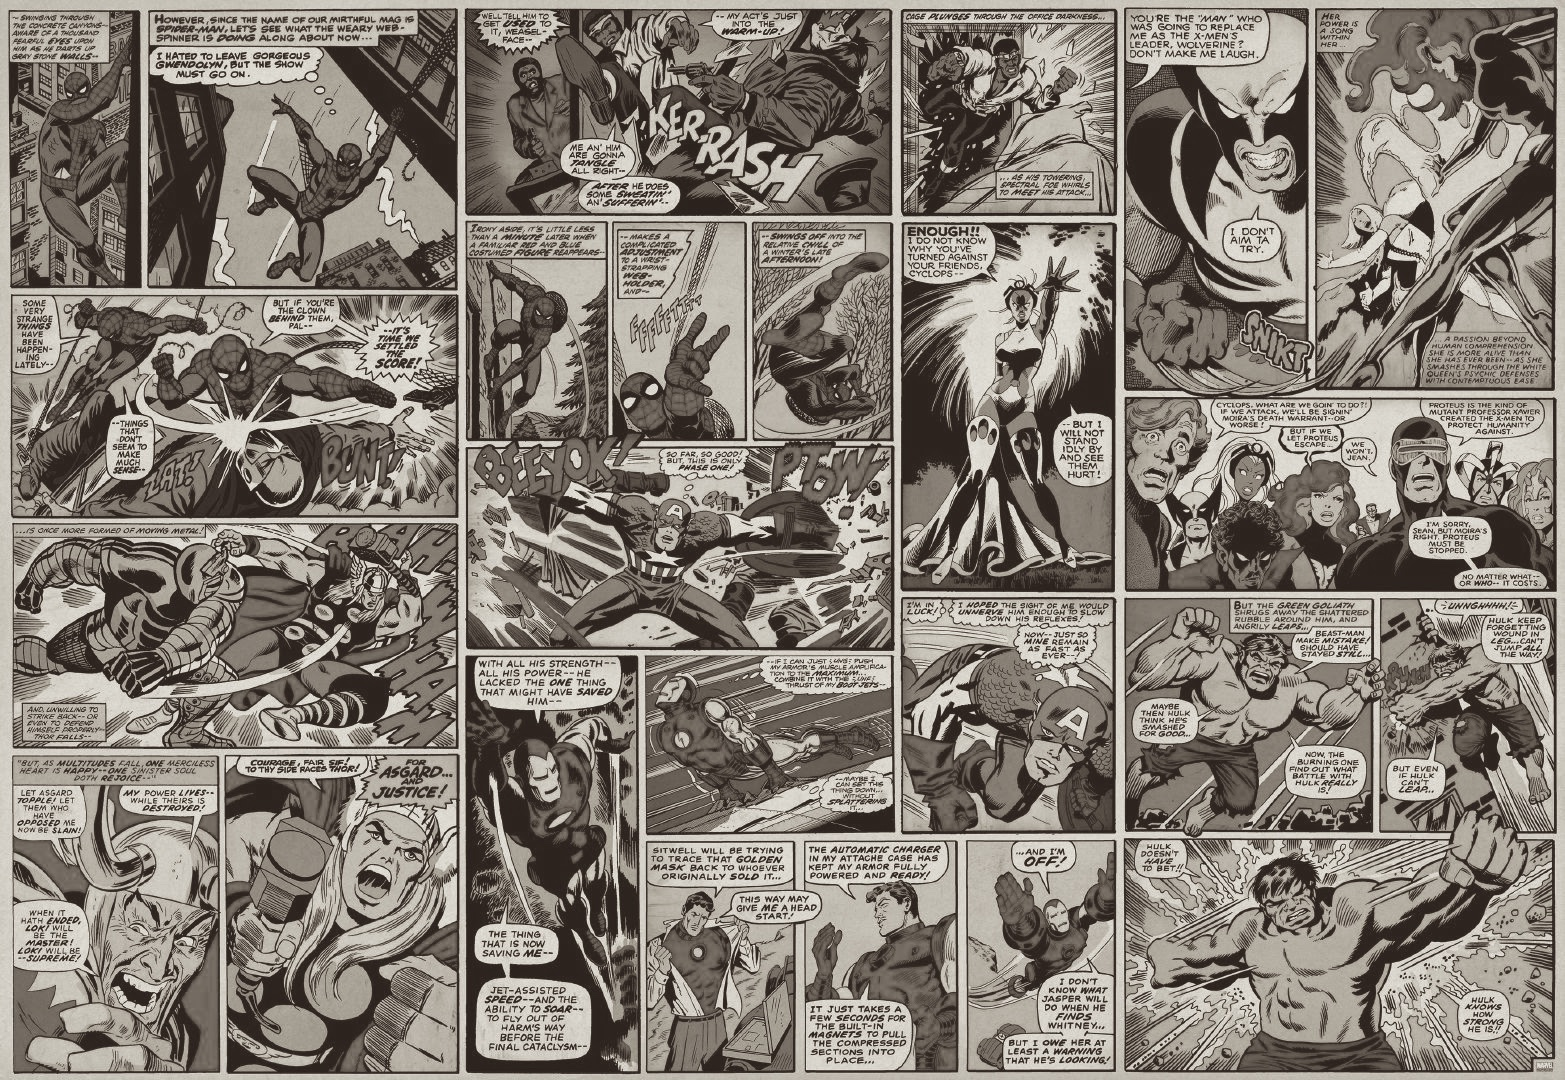
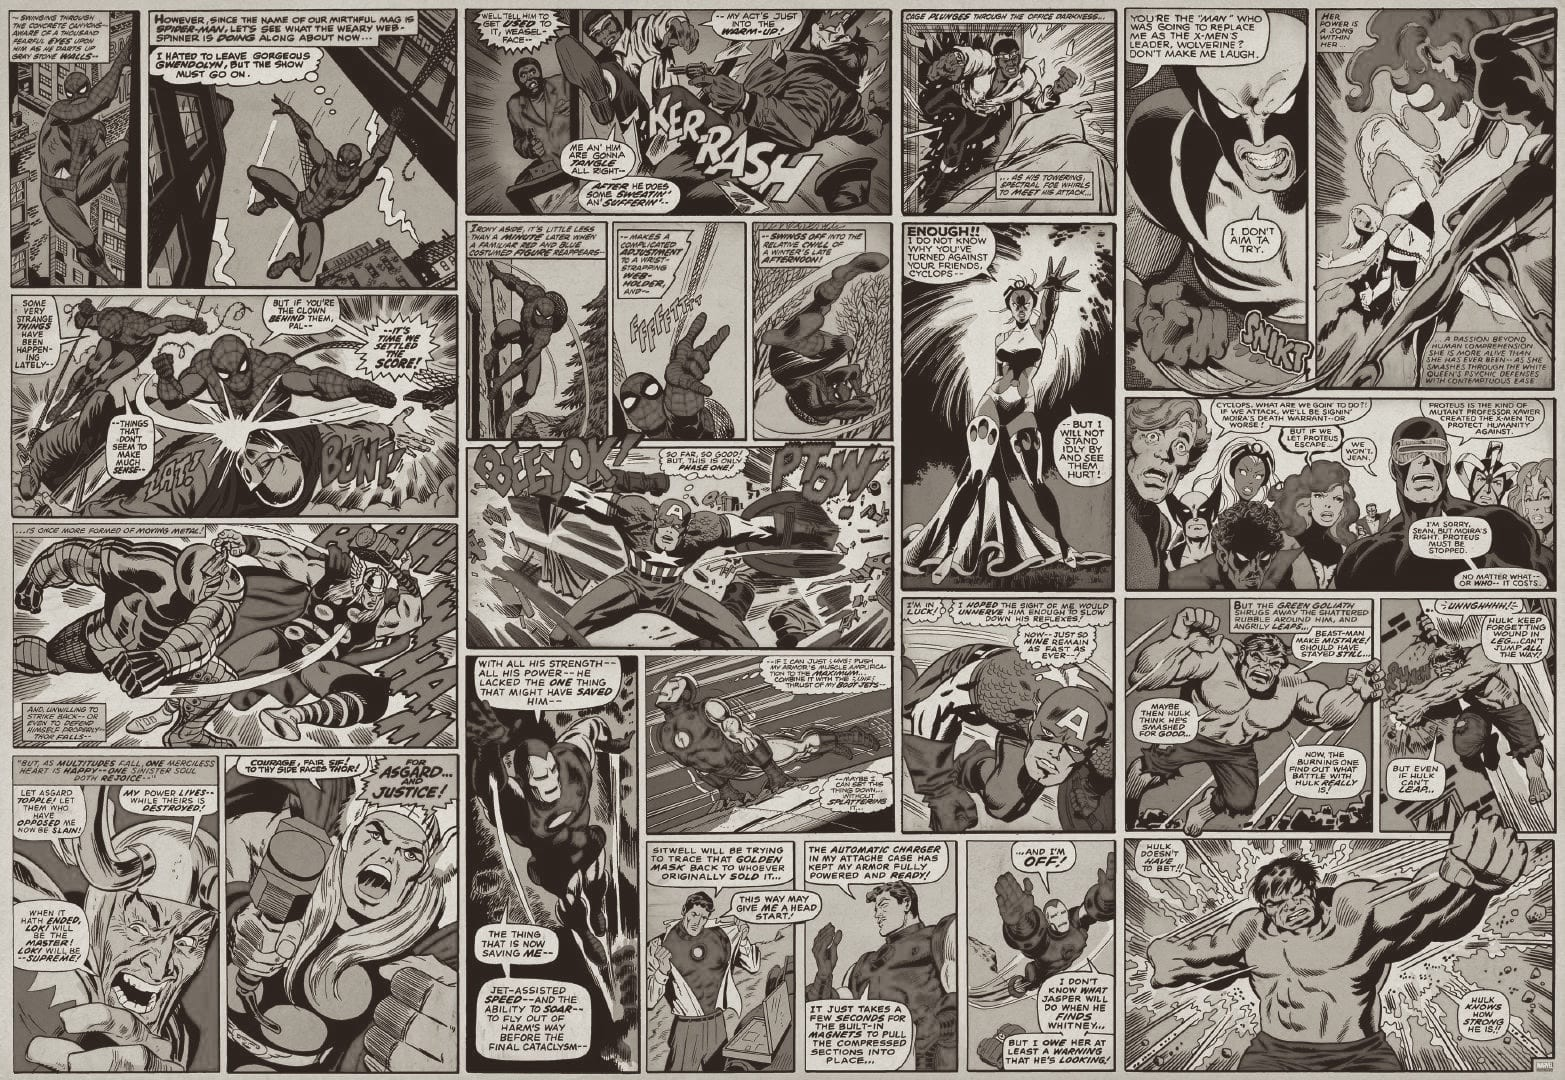
-More image compression -Implemented pulsing arrow on intro page -Overall code clean-up

Changed region(s): [[0.5827, 0.3056, 0.6134, 0.3361]]

diff --git a/stylesheets/style.css b/stylesheets/style.css
@@ -1,59 +1,80 @@
-
-
-body, html {
-    height:100%;
-    background-color:#8F7451;
-    max-width:100%;
+body,
+html {
+    height: 100%;
+    background-color: #8F7451;
+    max-width: 100%;
     overflow-x: hidden;
 }
-
-.Links { 
-    position:absolute;
-    padding-bottom:1em;
-    padding-right:2em;
-    bottom:0;
-    right:0;
+.intro .links {
+    position: absolute;
+    padding-bottom: 1em;
+    padding-right: 2em;
+    bottom: 0;
+    right: 0;
 }
-
-.intro {   
-    margin:0px;
-    width:100vw;
-    height:100vh;
-    background-image:url("../Images/Comic.jpg");
-    background-size:auto;
+body .intro {
+    background-image: url("../Images/Comic.jpg");
     background-attachment: fixed;
-    -webkit-background-size:cover;
+    -webkit-background-size: cover;
     -moz-background-size: cover;
     -o-background-size: cover;
+    background-size: cover;
     position: relative;
-    top:0;
 }
-
-#LOGO {
-    position:relative;
-    padding:0;
-    width:100vw;
-    height:100vh;
-    background-image:url("../Images/Devansh.png");
+.intro .LOGO {
+    position: relative;
+    width: 100vw;
+    height: 100vh;
+    background-image: url("../Images/Devansh.png");
     background-repeat: no-repeat;
-    background-attachment:scroll;
+    background-attachment: scroll;
     background-position: center center;
-    background-size:75% 75%;     
+    background-size: 75% 75%;
 }
-
-img {
-  position:absolute;
-  width:10%;
-  height:10%;
-  left:50vw;
-  right:50vw;
-  bottom:0;
-  -webkit-transition: opacity 1s ease-in-out;
-  -moz-transition: opacity 1s ease-in-out;
-  -o-transition: opacity 1s ease-in-out;
-  transition: opacity 1s ease-in-out;
+.enterButton {
+    position: absolute;
+    width: 10%;
+    height: 10%;
+    left: 50vw;
+    right: 50vw;
+    bottom: 0;
 }
-
-.intro img.top:hover {
-  opacity:0;
+@-webkit-keyframes blink {
+    0% {
+        opacity: 1;
+    }
+    50% {
+        opacity: 0;
+    }
+    100% {
+        opacity: 1;
+    }
+}
+@-moz-keyframes blink {
+    0% {
+        opacity: 1;
+    }
+    50% {
+        opacity: 0;
+    }
+    100% {
+        opacity: 1;
+    }
+}
+.top {
+    -webkit-transition: all 1s ease-in-out;
+    -moz-transition: all 1s ease-in-out;
+    -o-transition: all 1s ease-in-out;
+    -ms-transition: all 1s ease-in-out;
+    transition: all 1s ease-in-out;
+    -webkit-animation-direction: normal;
+    -webkit-animation-duration: 2s;
+    -webkit-animation-iteration-count: infinite;
+    -webkit-animation-name: blink;
+    -webkit-animation-timing-function: ease-in-out;
+    -moz-animation-direction: normal;
+    -moz-animation-duration: 2s;
+    -moz-animation-iteration-count: infinite;
+    -moz-animation-name: blink;
+    -moz-animation-timing-function: ease-in-out;
 }

diff --git a/index.html b/index.html
@@ -7,14 +7,14 @@
     <link rel="stylesheet" href="https://maxcdn.bootstrapcdn.com/bootstrap/3.3.5/css/bootstrap.min.css">
     <link rel="stylesheet" type="text/css" href="http://fonts.googleapis.com/css?family=Montserrat">
     <link rel="stylesheet" href="Resources/stackicons-master/css/stackicons-min.css" media="screen" type="text/css">
-    <link rel="stylesheet" type="text/css" media="all" href="stylesheets/animate.css">
+    <link rel="stylesheet" type="text/css" media="all" href="https://cdnjs.cloudflare.com/ajax/libs/animate.css/3.3.0/animate.min.css">
 
 </head>
 
 <body>
     <div class='intro'>
-        <div id='LOGO'></div>
-        <div class='Links st-shape-r4 st-multi-color'>
+        <div class='LOGO'></div>
+        <div class='links st-shape-r4 st-multi-color'>
             <span style="visibility: visible; -webkit-animation: fadeIn;">
                         <a class="st-icon-linkedin button" href="https://www.google.ca" target="_blank" style="font-size: 300%"><span></span></a>
             </span>
@@ -29,9 +29,19 @@
             </span>
         </div>
 
-        <img src="Images/Button-bottom.png">
-        <img class="top" src="Images/Button-top.png">
+        <img class="enterButton animated pulse" src="Images/Button-bottom.png">
+        <img class="enterButton top" src="Images/Button-top.png">
+
     </div>
+
+    <!--
+    <div class="container">
+        <div class="about">
+            <h1> About me</h1>
+            <p> I am 2A Mechatronics Engineer at the University of Waterloo.</p>
+        </div>
+    </div>
+-->
 
     <script src="https://ajax.googleapis.com/ajax/libs/jquery/1.11.3/jquery.min.js"></script>
     <script src="https://maxcdn.bootstrapcdn.com/bootstrap/3.3.5/js/bootstrap.min.js"></script>

diff --git a/Scripts/jQuery.js b/Scripts/jQuery.js
@@ -1,12 +1,6 @@
-/*
+
 $(document).ready(function(){
-    $('span').hover(
-        function(){
-            $(this).fadeTo('slow',0.1);
-        },
-        function(){
-            $(this).fadeTo('slow',1);
-        }     
-    ); 
+ 
 });
-*/
+
+
